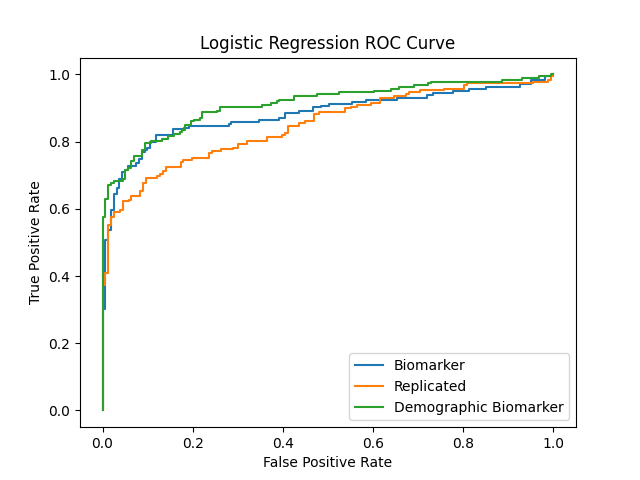
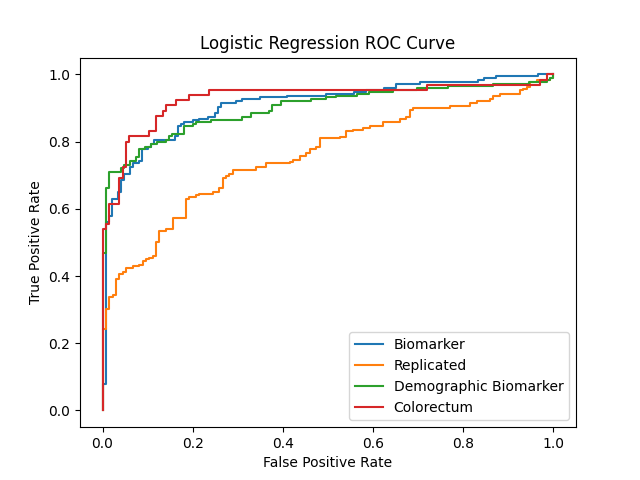
adding roc curves for train and test linear regression

diff --git a/LogisticRegression.py b/LogisticRegression.py
@@ -7,8 +7,9 @@ import matplotlib.pyplot as plt
 
 import numpy as np
 import utils
+from ReadData import read_data
 
-def logistic_regression(dataset, dataset_type):
+def logistic_regression_train(dataset, dataset_type):
 	X_train, X_dev, _, y_train, y_dev, _ = dataset
 
 	num_folds = KFold(n_splits=10, shuffle=True)
@@ -17,19 +18,37 @@ def logistic_regression(dataset, dataset_type):
 	lr_model.fit(X_train, y_train)
 
 	y_pred_probs = lr_model.predict_proba(X_dev)
-	roc_auc_score = utils.plot_roc(y_pred_probs[:, 1], y_dev, 'Logistic Regression', dataset_type, './graphs/lr_roc')
-	print(roc_auc_score)
+	roc_auc_score = utils.plot_roc(y_pred_probs[:, 1], y_dev, 'Logistic Regression Train', dataset_type, './graphs/lr_roc_train')
+	# print(roc_auc_score)
 
 	y_pred = np.argmax(y_pred_probs, axis=1)
 	accuracy, specificity, sensitivity = utils.acc_spec_sens(y_pred, y_dev)
-	return cval_score, accuracy, specificity, sensitivity
+	# print(accuracy, specificity, sensitivity)
+
+	return lr_model
+
+def logistic_regression_test(dataset, dataset_type, lr_model):
+	_, _, X_test, _, _, y_test = dataset
+	y_pred_probs = lr_model.predict_proba(X_test)
+	roc_auc_score = utils.plot_roc(y_pred_probs[:, 1], y_test, 'Logistic Regression Test', dataset_type, './graphs/lr_roc_test')
+	# print(roc_auc_score)
+
+	y_pred = np.argmax(y_pred_probs, axis=1)
+	test_accuracy, _, _ = utils.acc_spec_sens(y_pred, y_test)
+	# print(accuracy, specificity, sensitivity)
 
 if __name__ == "__main__":
-	demographic_biomarker_data, biomarker_data, replicated_biomarker_data = utils.read_data()
-	biomarker_score = logistic_regression(biomarker_data, 'Biomarker')
-	replicated_score = logistic_regression(replicated_biomarker_data, 'Replicated')
-	demographic_biomarker_data_score = logistic_regression(demographic_biomarker_data, 'Demographic Biomarker')
+	demographic_biomarker_data, biomarker_data, replicated_biomarker_data, colorectum_data = read_data()
+	biomarker_model = logistic_regression_train(biomarker_data, 'Biomarker')
+	replicated_model = logistic_regression_train(replicated_biomarker_data, 'Replicated')
+	demographic_biomarker_model = logistic_regression_train(demographic_biomarker_data, 'Demographic Biomarker')
+	colorectum_model = logistic_regression_train(colorectum_data, 'Colorectum')
+	plt.figure()
+	biomarker_score_test = logistic_regression_test(biomarker_data, 'Biomarker', biomarker_model)
+	replicated_score = logistic_regression_test(replicated_biomarker_data, 'Replicated', replicated_model)
+	demographic_biomarker_data_score = logistic_regression_test(demographic_biomarker_data, 'Demographic Biomarker', demographic_biomarker_model)
+	colorectum_data_score = logistic_regression_test(colorectum_data, 'Colorectum', colorectum_model)
 
-	print(biomarker_score)
-	print(replicated_score)
-	print(demographic_biomarker_data_score)
+	# print(biomarker_score)
+	# print(replicated_score)
+	# print(demographic_biomarker_data_score)
